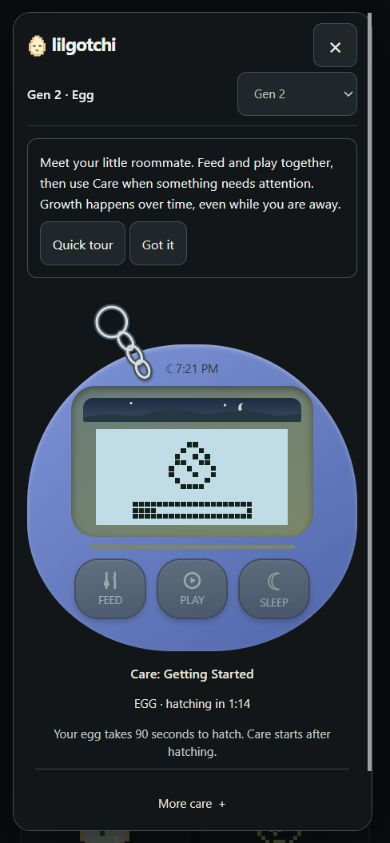
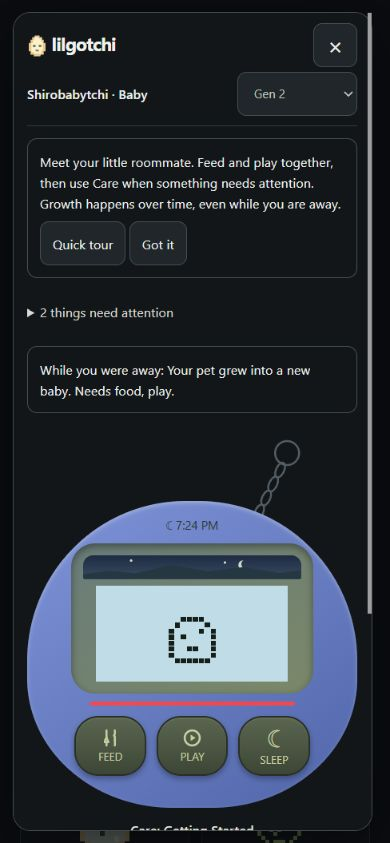
soften the keychain

diff --git a/pets/game.html b/pets/game.html
@@ -13,21 +13,17 @@
 
 
 <div id="device">
-<div id="egg-shell">
-  <svg class="keychain" viewBox="0 0 74 80" aria-hidden="true" focusable="false">
-    <g fill="none" stroke="#49535c" stroke-width="6">
-      <circle cx="23" cy="20" r="15"/>
-      <ellipse cx="37" cy="39" rx="6" ry="10" transform="rotate(-35 37 39)"/>
-      <ellipse cx="46" cy="53" rx="6" ry="10" transform="rotate(-30 46 53)"/>
-      <ellipse cx="54" cy="67" rx="6" ry="9" transform="rotate(-25 54 67)"/>
-    </g>
-    <g fill="none" stroke="#d6dee3" stroke-width="2.5">
-      <circle cx="23" cy="20" r="15"/>
-      <ellipse cx="37" cy="39" rx="6" ry="10" transform="rotate(-35 37 39)"/>
-      <ellipse cx="46" cy="53" rx="6" ry="10" transform="rotate(-30 46 53)"/>
-      <ellipse cx="54" cy="67" rx="6" ry="9" transform="rotate(-25 54 67)"/>
+  <svg class="keychain" viewBox="0 0 66 104" aria-hidden="true" focusable="false">
+    <g fill="none" stroke="#77838b" stroke-width="2">
+      <circle cx="49" cy="16" r="12"/>
+      <ellipse cx="42" cy="33" rx="4" ry="8" transform="rotate(25 42 33)"/>
+      <ellipse cx="35" cy="47" rx="4" ry="8" transform="rotate(25 35 47)"/>
+      <ellipse cx="28" cy="61" rx="4" ry="8" transform="rotate(25 28 61)"/>
+      <ellipse cx="21" cy="75" rx="4" ry="8" transform="rotate(25 21 75)"/>
+      <ellipse cx="14" cy="89" rx="4" ry="8" transform="rotate(25 14 89)"/>
     </g>
   </svg>
+<div id="egg-shell">
   <button id="settings-btn" aria-label="Settings">&#9881;</button>
   <div id="pet-clock" aria-label="Local time"></div>
   <div id="screen-frame">

diff --git a/pets/embed.css b/pets/embed.css
@@ -44,8 +44,9 @@ html[data-embedded="true"] #settings-btn { top:2px; right:calc(50% - 22px); }
 html[data-embedded="true"] #device,#device { padding:0; border-radius:0; background:transparent; box-shadow:none; width:100%; }
 #egg-shell { box-sizing:border-box; width:100%; padding:42px 14px 32px; position:relative; display:flex; flex-direction:column; align-items:center; border-radius:48% 48% 44% 44% / 52% 52% 42% 42%; background:var(--device-bg); box-shadow:var(--device-inset); }
 #pet-clock { position:absolute; top:17px; left:0; right:0; text-align:center; font:12px/1.3 system-ui,sans-serif; color:#28352b; }
-.keychain { position:absolute; width:74px; height:80px; top:-42px; left:calc(35% - 54px); pointer-events:none; filter:drop-shadow(1px 2px 1px #0005); }
-#egg-shell { margin-top:42px; }
+.keychain { position:absolute; width:66px; height:104px; top:0; right:16%; pointer-events:none; opacity:.65; }
+#device { position:relative; isolation:isolate; }
+#egg-shell { margin-top:64px; z-index:1; }
 html[data-embedded="true"] #settings-btn { top:5px; right:23%; width:44px; height:44px; font-size:19px; opacity:1; color:#28352b; }
 #screen-frame { position:relative; width:80%; padding:12px; border-radius:24px; overflow:visible; background:linear-gradient(150deg,var(--scene-top,#a8b69a),var(--screen-frame)); }
 #lcd { border-radius:0; position:relative; }
